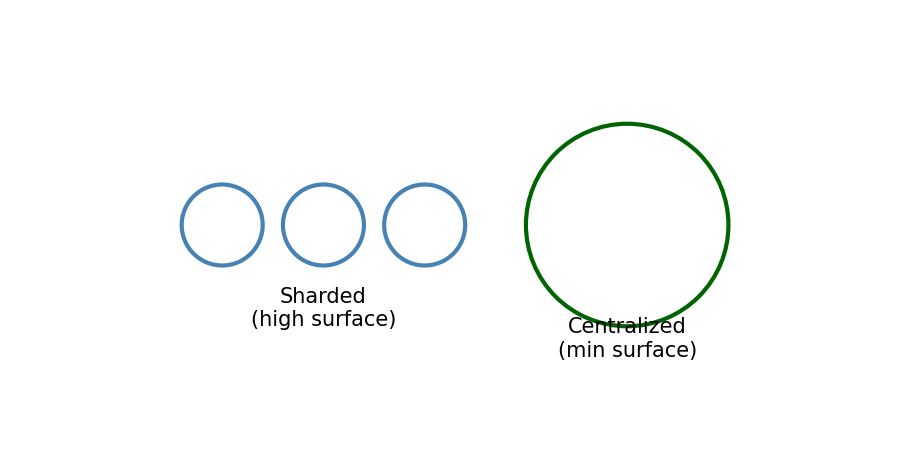
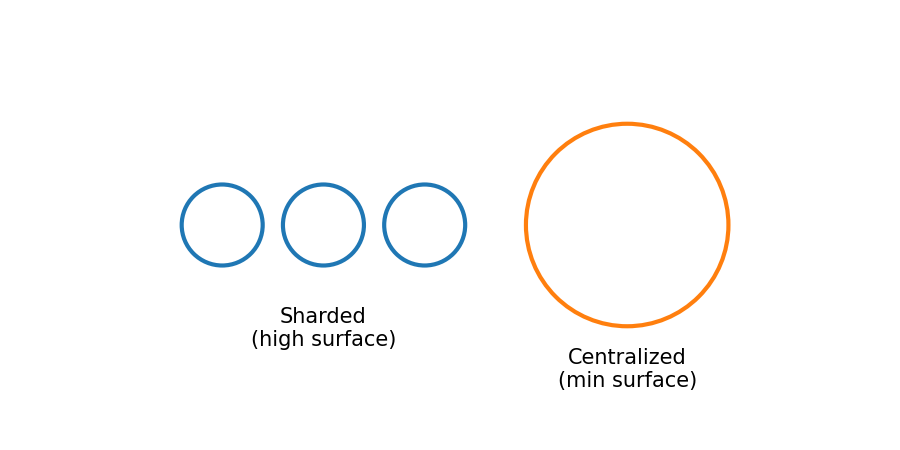
viz: adjust droplet colors to match palette and lower label

diff --git a/viz/info_droplet.py b/viz/info_droplet.py
@@ -8,12 +8,12 @@ ax.axis('off')
 
 # Left: sharded
 for x in [-2,-1,0]:
-    ax.add_patch(Circle((x,0),0.4,edgecolor='steelblue',facecolor='none',linewidth=2))
-ax.text(-1, -1, 'Sharded\n(high surface)',ha='center')
+    ax.add_patch(Circle((x,0),0.4,edgecolor='#1f77b4',facecolor='none',linewidth=2))  # blue
+ax.text(-1, -1.2, 'Sharded\n(high surface)',ha='center')
 
 # Right: centralized
-ax.add_patch(Circle((2,0),1.0,edgecolor='darkgreen',facecolor='none',linewidth=2))
-ax.text(2, -1.3, 'Centralized\n(min surface)',ha='center')
+ax.add_patch(Circle((2,0),1.0,edgecolor='#ff7f0e',facecolor='none',linewidth=2))  # orange
+ax.text(2, -1.6, 'Centralized\n(min surface)',ha='center')
 
 plt.xlim(-3.5,4)
 plt.ylim(-2,2)
